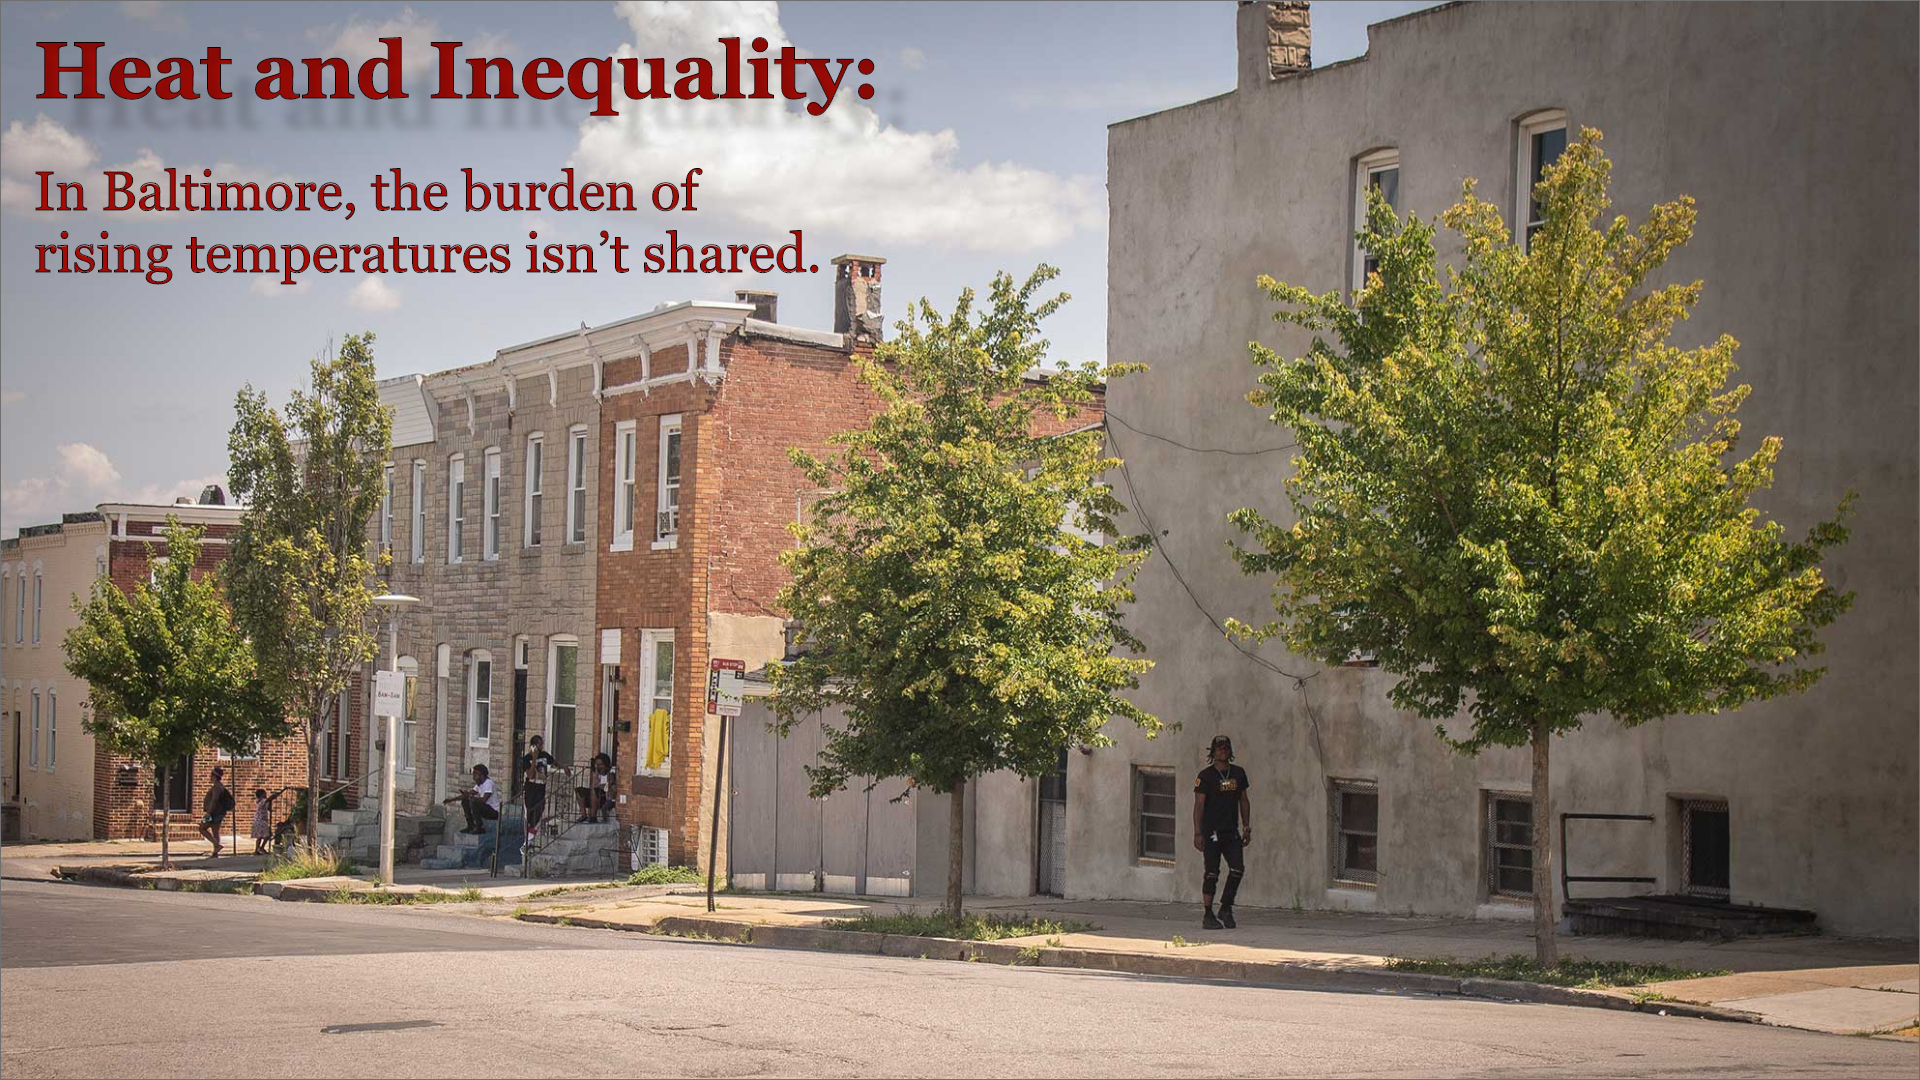
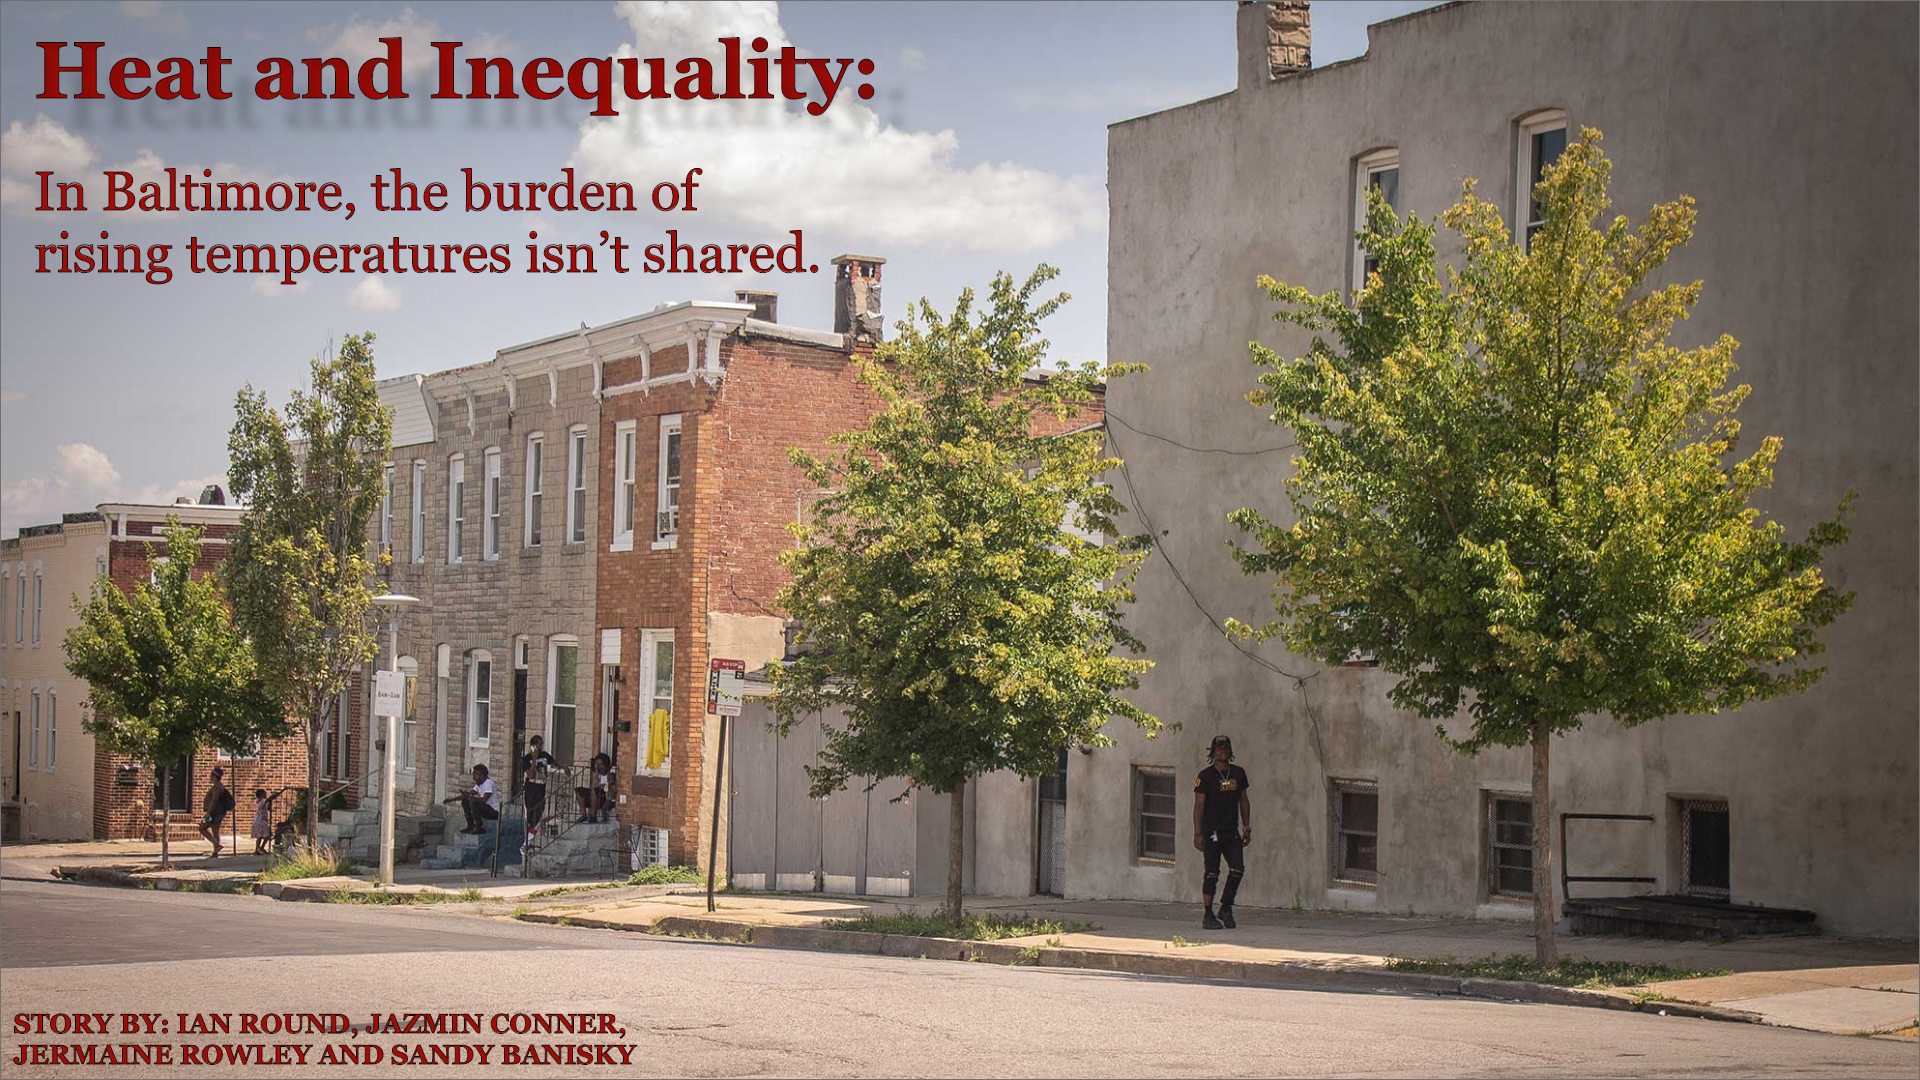
all

Changed region(s): [[0.0, 0.9167, 0.3438, 1.0]]

diff --git a/climate-crisis-story/codered.html b/climate-crisis-story/codered.html
@@ -26,13 +26,25 @@
      <img src="header.png" class="headerimage" alt="Baltimore in the summertime with the words 'Heat and Inequality: In Baltimore, the burden of rising temperatures isn’t shared.' on the image in red">
       <p class="caption"> Shade is one of the only ways for many McElderry Park residents to avoid the extreme summer heat, but the neighborhood doesn’t have enough mature trees to cool its streets and homes. (Photo by Justice Georgie | Wide Angle Youth Media)</p>
 
-      <div id="byline">
-        <p>STORY BY: IAN ROUND, JAZMIN CONNER, JERMAINE ROWLEY AND SANDY BANISKY</p>
+      <div id="mySidebar" class="sidebar">
+  <a href="javascript:void(0)" class="closebtn" onclick="closeNav()">&times;</a>
+  <a href="#">About</a>
+  <a href="#">Services</a>
+  <a href="#">Clients</a>
+  <a href="#">Contact</a>
+</div>
+
+<div id="main">
+  <button class="openbtn" onclick="openNav()">&#9776; Open Sidebar</button>
+  <h2>Collapsed Sidebar</h2>
+  <p>Content...</p>
+</div>
 
       <div class="subhead">
-        <p>In urban heat islands, climate crisis hits harder</p>
+      <p>In urban heat islands, climate crisis hits harder</p>
+      </div>
 
-      <div class="bodytext">
+      <div id="bodytext1">
         <p> Heat radiates from the asphalt and concrete that cover the streets, the sidewalks, the alleys, even the tiny yards behind the homes in the East Baltimore neighborhood of McElderry Park. Trees are scarce. And air doesn’t move much when it comes up against block after block of rowhouses.</p>
 
         <p> So as a dangerous 11-day heat wave tormented the city in July, the hottest month ever recorded on the planet, fewer and fewer residents were going outside.</p>
@@ -51,19 +63,26 @@
 
         <p>More and more people, including Del. Robbyn Lewis, who represents parts of East Baltimore, are replacing the words “climate change” with stronger language.</p>
 
-      <div class="subhead">
-        <p>Urban heat islands</p>
+        </div>
 
-      <div class="bodytext">
+      <div class="subhead">
+      <p>  Urban heat islands</p>
+
+        </div>
+
+      <div id="bodytext2">
         <p>Cities, crowded and paved over, already feel the impact of climate change, with poorer air quality and streets, highways and bridges damaged by storms. But certain neighborhoods will continue to feel the effects of extreme temperatures more than others.</p>
 
         <p>Researchers at Portland State University in Oregon and the Science Museum of Virginia have mapped these areas, called urban heat islands, and data shows that temperatures here and in surrounding neighborhoods can run 8 degrees hotter than in communities that have more trees and less pavement.</p>
 
-        <div id="blockquote1">
+        </div>
 
-        <p>“Environmental justice and climate change are inextricably linked.” - Sacoby Wilson, University of Maryland public health professor </p>
+<!--blockquote-->
+        <!--<div id="blockquote1">-->
 
-        <div class="bodytext">
+        <!--<p>“Environmental justice and climate change are inextricably linked.” - Sacoby Wilson, University of Maryland public health professor </p>-->
+
+        <div id="bodytext3">
 
         <p>McElderry Park, which despite its lyrical name offers little green space, is one of these: the hottest neighborhood in Baltimore, a city whose climate has long been classified as humid subtropical.</p>
 
@@ -87,10 +106,14 @@
 
         <p>“We have to root ourselves in the reality that Baltimore for all this great history has a history of inequality and racism that we don’t like to talk about,” Baltimore City Council President Brandon M. Scott said.</p>
 
+        </div>
+
       <div class="subhead">
         <p>The Code Red weekend</p>
 
-      <div class="bodytext">
+        </div>
+
+      <div id="bodytext4">
 
         <p>As July’s weather emergency bore down, Baltimore’s health department put out press releases advising citizens to drink water and cut back on outdoor activities. At a Thursday press conference warning of a 100-degree weekend, the mayor told Baltimoreans to stay inside until the weather broke Monday night.</p>
 
@@ -112,10 +135,14 @@
 
         <p>Still, she said an air conditioner in the kitchen provides enough relief for the family during the day. She would rather stay home with the shades drawn against the heat than walk her children a mile to a cooling center.</p>
 
+        </div>
+
 <div class="subhead">
   <p>Security concerns</p>
 
-<div class="bodytext">
+  </div>
+
+<div id="bodytext5">
 
       <p>Solomon Simmons, 70, and his neighbor Harriett Alexander said McElderry Park used to be more tightknit — “like a village,” Simmons said.</p>
 
@@ -131,11 +158,13 @@
 
       <p>He said he didn’t know about cooling centers but would rather take an air-conditioned drive or go to the movies than sit in a cooling center.</p>
 
-  <div id="blockquote2">
+      </div>
 
-      <p>“We wouldn’t need cooling centers if we had healthy neighborhoods.” - Del. Robbyn Lewis of East Baltimore</p>
+<!--  <div id="blockquote2">
 
-  <div class="bodytext">
+      <p>“We wouldn’t need cooling centers if we had healthy neighborhoods.” - Del. Robbyn Lewis of East Baltimore</p>-->
+
+  <div id="bodytext5">
 
       <p>Alexander, retired from Armco Steel and the Baltimore school system, follows the old Baltimore practice of scrubbing her rowhouse’s white marble steps often. She used to scrub the steps of neighbors’ houses as well. “It’s important to me,” she said. “This is where I live.”</p>
 
@@ -159,10 +188,14 @@
 
       <p>Lewis said, “We wouldn’t need cooling centers if we had healthy neighborhoods.”</p>
 
+      </div>
+
 <div class="subhead">
   <p>Heading off catastrophe</p>
 
-<div class="bodytext">
+  </div>
+
+<div id="bodytext7">
 
     <p>Twenty people have died of heat-related illnesses in Maryland so far this year, three of them in Baltimore, according to state data through Aug. 28.</p>
 
@@ -190,10 +223,14 @@
 
     <p>“Being able to identify vulnerable areas [where people are especially endangered by heat] is very challenging,” she said. Also, “in a heat wave, everyone is at risk, including people who knock on doors.”</p>
 
+    </div>
+
 <div class="subhead">
   <p>Trees help with heat</p>
 
-<div class="bodytext">
+  </div>
+
+<div id="bodytext8">
 
     <p>When Baltimore officials are asked how the city is preparing for the more extreme temperatures ahead, several people point to the efforts by City Hall and volunteer groups to plant more trees. Citywide, the tree canopy in 2015 was 28%, up from 27% in 2007.</p>
 
@@ -209,10 +246,14 @@
 
     <p>At the end of July, Scott released an agenda with 26 priorities for the coming council year. Climate change was not among them.</p>
 
+    </div>
+
     <div class="subhead">
       <p>Rowhouses in the heat</p>
 
-    <div class="bodytext">
+      </div>
+
+    <div id="bodytext9">
 
     <p>Rowhouses efficiently conserve heat — which is welcome in the winter, a problem in the summer.</p>
 
@@ -224,10 +265,14 @@
 
     <p>It’s the largest green space for blocks. But some neighbors said they are reluctant to walk their dogs there for fear they will step on syringes discarded by people who use drugs.</p>
 
+    </div>
+
 <div class="subhead">
   <p>Coping with the heat</p>
 
-<div class="bodytext">
+  </div>
+
+<div id="bodytext10">
 
     <p>As temperatures in Baltimore reached 100 on July 20, most everyone around the city was staying inside. Some of the people on the streets walked under open umbrellas, carrying their own circle of shade. Men wore damp cloths draped under their caps or on the backs of their necks. No one was moving quickly.</p>
 
@@ -245,9 +290,13 @@
 
     <p>“Accept it,” he said.</p>
 
+    </div>
+
   <div id="credits">
 
     <p>Jake Gluck, Jane Gerard, Roxanne Ready, Theresa Diffendal and Sean Mussenden of the University of Maryland contributed to this story. Additional information was also provided by Sean McMinn, Meg Anderson and Nora Eckert of NPR.</p>
+
+    </div>
 
 
 

diff --git a/climate-crisis-story/codered.css b/climate-crisis-story/codered.css
@@ -10,22 +10,146 @@ font-family: font-family: 'Montserrat', sans-serif;
 font-style: italic;
 }
 
-#byline {
-font-family: font-family: 'Montserrat', sans-serif;
-}
-
 .subhead {
 font-family: font-family: 'Montserrat', sans-serif;
+text-align: left;
+margin-left: 20%;
+margin-right: 20%;
+font-weight: bold;
+font-size: 2.5em;
+color: #A20B06;
 }
 
-.bodytext {
+#bodytext1 {
 font-family: font-family: 'Montserrat', sans-serif;
+text-align: left;
+margin-left: 20%;
+margin-right: 20%;
 }
 
-#blockquote1 {
-font-family: font-family: 'Montserrat', sans-serif;
+#bodytext2 {
+  font-family: font-family: 'Montserrat', sans-serif;
+  text-align: left;
+  margin-left: 20%;
+  margin-right: 20%;
 }
 
-#blockquote2 {
-font-family: font-family: 'Montserrat', sans-serif;
+#bodytext3 {
+  font-family: font-family: 'Montserrat', sans-serif;
+  text-align: left;
+  margin-left: 20%;
+  margin-right: 20%;
+}
+
+#bodytext4 {
+  font-family: font-family: 'Montserrat', sans-serif;
+  text-align: left;
+  margin-left: 20%;
+  margin-right: 20%;
+}
+
+#bodytext5 {
+  font-family: font-family: 'Montserrat', sans-serif;
+  text-align: left;
+  margin-left: 20%;
+  margin-right: 20%;
+}
+
+#bodytext6 {
+  font-family: font-family: 'Montserrat', sans-serif;
+  text-align: left;
+  margin-left: 20%;
+  margin-right: 20%;
+}
+
+#bodytext7 {
+  font-family: font-family: 'Montserrat', sans-serif;
+  text-align: left;
+  margin-left: 20%;
+  margin-right: 20%;
+}
+
+#bodytext8 {
+  font-family: font-family: 'Montserrat', sans-serif;
+  text-align: left;
+  margin-left: 20%;
+  margin-right: 20%;
+}
+
+#bodytext9 {
+  font-family: font-family: 'Montserrat', sans-serif;
+  text-align: left;
+  margin-left: 20%;
+  margin-right: 20%;
+}
+
+#bodytext10 {
+  font-family: font-family: 'Montserrat', sans-serif;
+  text-align: left;
+  margin-left: 20%;
+  margin-right: 20%;
+}
+
+/* The sidebar menu */
+.sidebar {
+  height: 100%; /* 100% Full-height */
+  width: 0; /* 0 width - change this with JavaScript */
+  position: fixed; /* Stay in place */
+  z-index: 1; /* Stay on top */
+  top: 0;
+  left: 0;
+  background-color: #111; /* Black*/
+  overflow-x: hidden; /* Disable horizontal scroll */
+  padding-top: 60px; /* Place content 60px from the top */
+  transition: 0.5s; /* 0.5 second transition effect to slide in the sidebar */
+}
+
+/* The sidebar links */
+.sidebar a {
+  padding: 8px 8px 8px 32px;
+  text-decoration: none;
+  font-size: 25px;
+  color: #818181;
+  display: block;
+  transition: 0.3s;
+}
+
+/* When you mouse over the navigation links, change their color */
+.sidebar a:hover {
+  color: #f1f1f1;
+}
+
+/* Position and style the close button (top right corner) */
+.sidebar .closebtn {
+  position: absolute;
+  top: 0;
+  right: 25px;
+  font-size: 36px;
+  margin-left: 50px;
+}
+
+/* The button used to open the sidebar */
+.openbtn {
+  font-size: 20px;
+  cursor: pointer;
+  background-color: #111;
+  color: white;
+  padding: 10px 15px;
+  border: none;
+}
+
+.openbtn:hover {
+  background-color: #444;
+}
+
+/* Style page content - use this if you want to push the page content to the right when you open the side navigation */
+#main {
+  transition: margin-left .5s; /* If you want a transition effect */
+  padding: 20px;
+}
+
+/* On smaller screens, where height is less than 450px, change the style of the sidenav (less padding and a smaller font size) */
+@media screen and (max-height: 450px) {
+  .sidebar {padding-top: 15px;}
+  .sidebar a {font-size: 18px;}
 }
